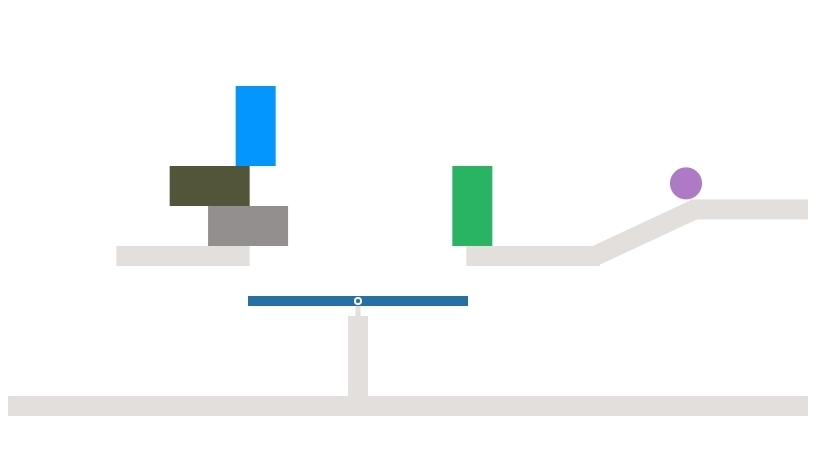
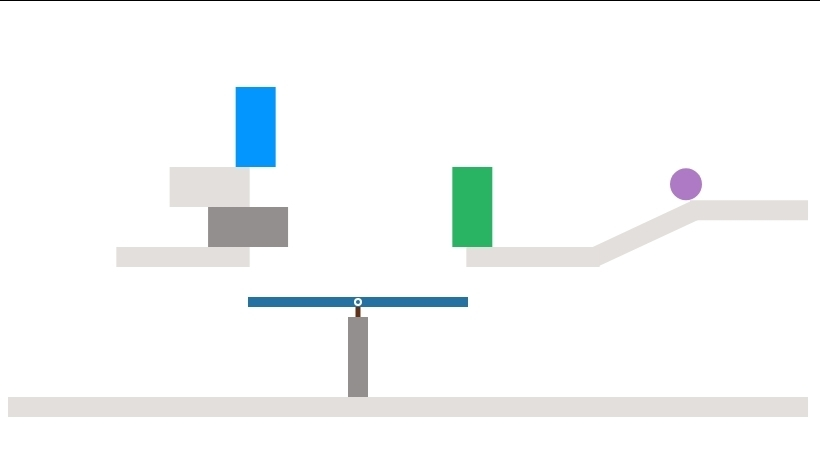
minor updates in stimuli

diff --git a/blocks/stimuli/05_train_stimuli.js b/blocks/stimuli/05_train_stimuli.js
@@ -57,20 +57,23 @@ trials_independent = function(){
 trials_uncertain = function(){
   let data = {}
   let meta = [
-    ["falls-horiz", "doesnt-fall", "train-uncertain"],
-    ["doesnt-fall-horiz","falls", "train-uncertain"]
+    ["doesnt-fall", "falls-horiz", "train-uncertain"],
+    ["falls", "doesnt-fall-horiz", "train-uncertain"]
   ];
-  let bA = blockOnBase(W9, -0.5, cols.train_blocks[0], "blockaA", horiz=true); // falls
-  let bB = blockOnBase(W8, 0.53, cols.train_blocks[1], "blockbC", horiz=false); //doesnt fall
-  let distractor1 = blockOnBase(W10, -0.55, cols.darkbrown, 'distractor1', true);
+  let walls = Walls.train.uncertain;
+  let bA = blockOnBase(walls[0], 0.55, cols.train_blocks[1], "blockaA", horiz=false); //doesnt fall
+  let bB = blockOnBase(walls[1], -0.5, cols.train_blocks[0], "blockbC", horiz=true); // falls
+  let dist1 = blockOnBase(walls[2], -0.505, cols.darkgrey, 'dist1', true);
 
-  let bC = blockOnBase(W8, 0.5, cols.train_blocks[1], "blockcC", horiz=false); // falls
-  let bD = blockOnBase(W9, -0.53, cols.train_blocks[0], "blockdA", horiz=true); // doesnt fall
-  let distractor2 = blockOnBase(W10, -0.52, cols.darkgrey, 'distractor2', false);
+  let bC = blockOnBase(walls[0], 0.5, cols.train_blocks[1], "blockcA", horiz=false); // falls
+  let bD = blockOnBase(walls[1], -0.53, cols.train_blocks[0], "blockdC", horiz=true); // doesnt fall
+  let dist2 = blockOnBase(walls[2], -0.6, cols.darkgrey, 'dist2', true);
+  let dist3 = blockOnBase(dist2, 0.52, cols.grey, 'dist3', true);
 
-  [[bA, bB, distractor1], [bC, bD, distractor2]].forEach(function(blocks, i){
+
+  [[bA, bB, dist1], [bC, bD, dist2, dist3]].forEach(function(blocks, i){
     let id = "uncertain_" + i
-    data[id] = {objs: blocks.concat(Walls.train.uncertain),
+    data[id] = {objs: blocks.concat(walls),
                 meta: meta[i],id}
     });
   return data

diff --git a/blocks/stimuli/03_elements.js b/blocks/stimuli/03_elements.js
@@ -139,8 +139,8 @@ Walls.train.tilted_independent =  function(tilt, increase, base) {
 }
 
 //let W8 = wall(x=scene.w/2, y=scene.h/2, w=props.walls.w, h=props.walls.h, 'wallMiddle');
-let W8 = wall('w8_middle_left', (1/4) * scene.w, scene.h/2);
-let W9 = wall('w9_middle_right', (3/4) * scene.w, scene.h/2);
+let W8 = wall('w8_middle_left', (1/4) * scene.w, scene.h/3);
+let W9 = wall('w9_middle_right', (3/4) * scene.w, scene.h/3);
 let W10 = wall('w10_right_low', (2/3) * scene.w, (3/4) * scene.h);
 Walls.train.uncertain = [W8, W9, W10]
 

diff --git a/blocks/stimuli/color-vision.js b/blocks/stimuli/color-vision.js
@@ -3,7 +3,7 @@ makeColorVisionStimuli = function(){
   let base = wall('w_center', scene.w/2, scene.h/2, props.walls.w,
     props.walls.h, {'render': {'fillStyle': cols.grey}})
   let cols_blocks = cols.train_blocks.concat(cols.test_blocks);
-  let cols_distractors = [cols.darkbrown, cols.darkgrey, cols.darkgrey, cols.darkbrown]
+  let cols_distractors = [cols.grey, cols.darkgrey, cols.darkgrey, cols.grey]
 
   for(var trial=0; trial<4; trial++) {
     let id = 'color' + trial;

diff --git a/blocks/stimuli/04_test_stimuli.js b/blocks/stimuli/04_test_stimuli.js
@@ -53,7 +53,7 @@ testTrials_a_iff_c = function(priors){
   }
   let blocks = [];
   if (priors[0] === "high" && priors[1] === "high") {
-    let xBlock2 = blockOnBase(xBlock, 0.52 * -factor, cols.darkbrown, "xBlock2", true)
+    let xBlock2 = blockOnBase(xBlock, 0.52 * -factor, cols.grey, "xBlock2", true)
     blocks.push(xBlock2)
     let idx = factor === -1 ? 1 : 0;
     bases[idx] = xBlock2

diff --git a/blocks/stimuli/00_globals.js b/blocks/stimuli/00_globals.js
@@ -17,7 +17,6 @@ cols = {
       'light_green': '#51DE19',
       'purple': '#AF7AC5',
       'brown': '#B05D3A',
-      'darkbrown': '#874400',
       'grey': '#E3DFDC',
       'darkgrey': '#938F8E',
       'darkbrown': '#642F17',
